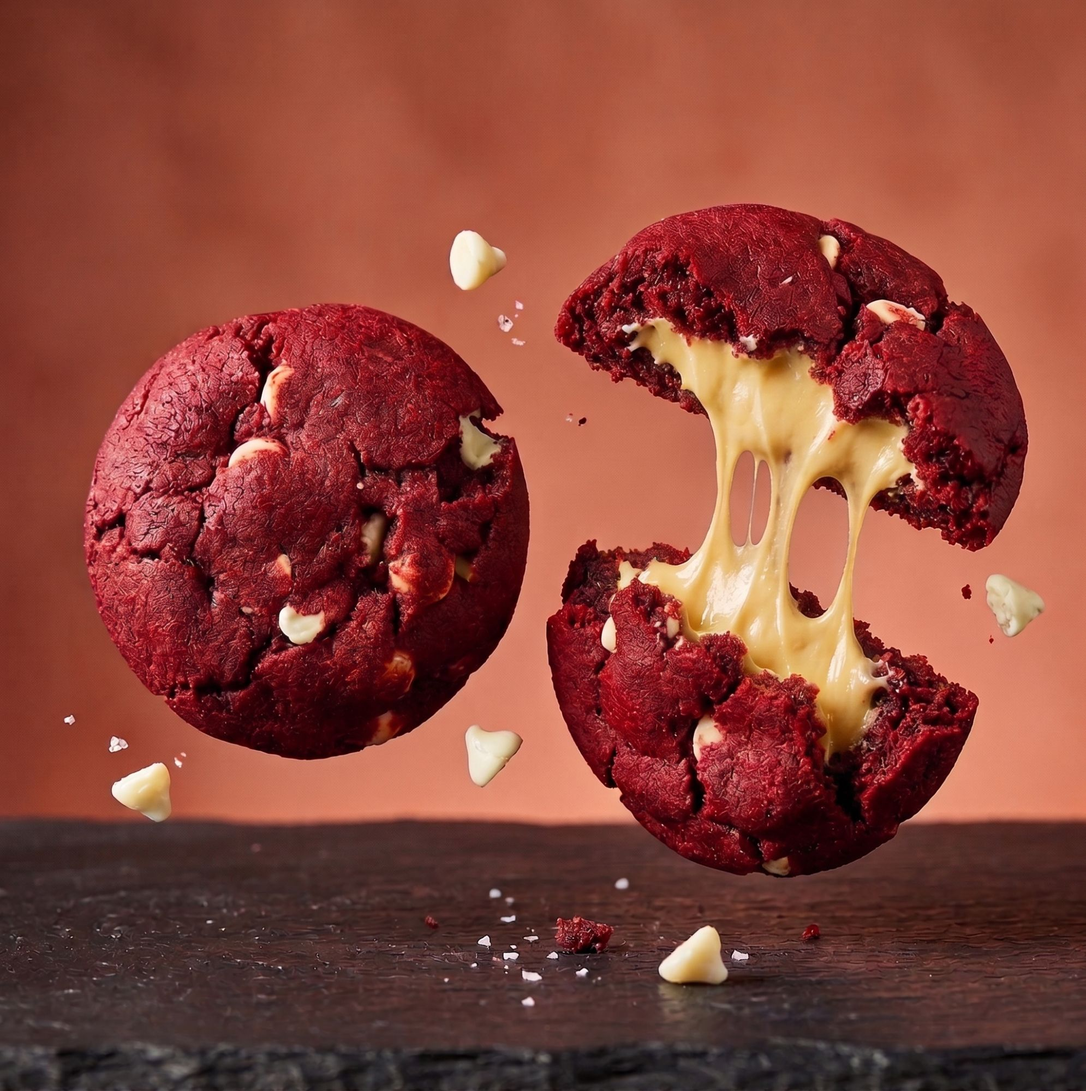
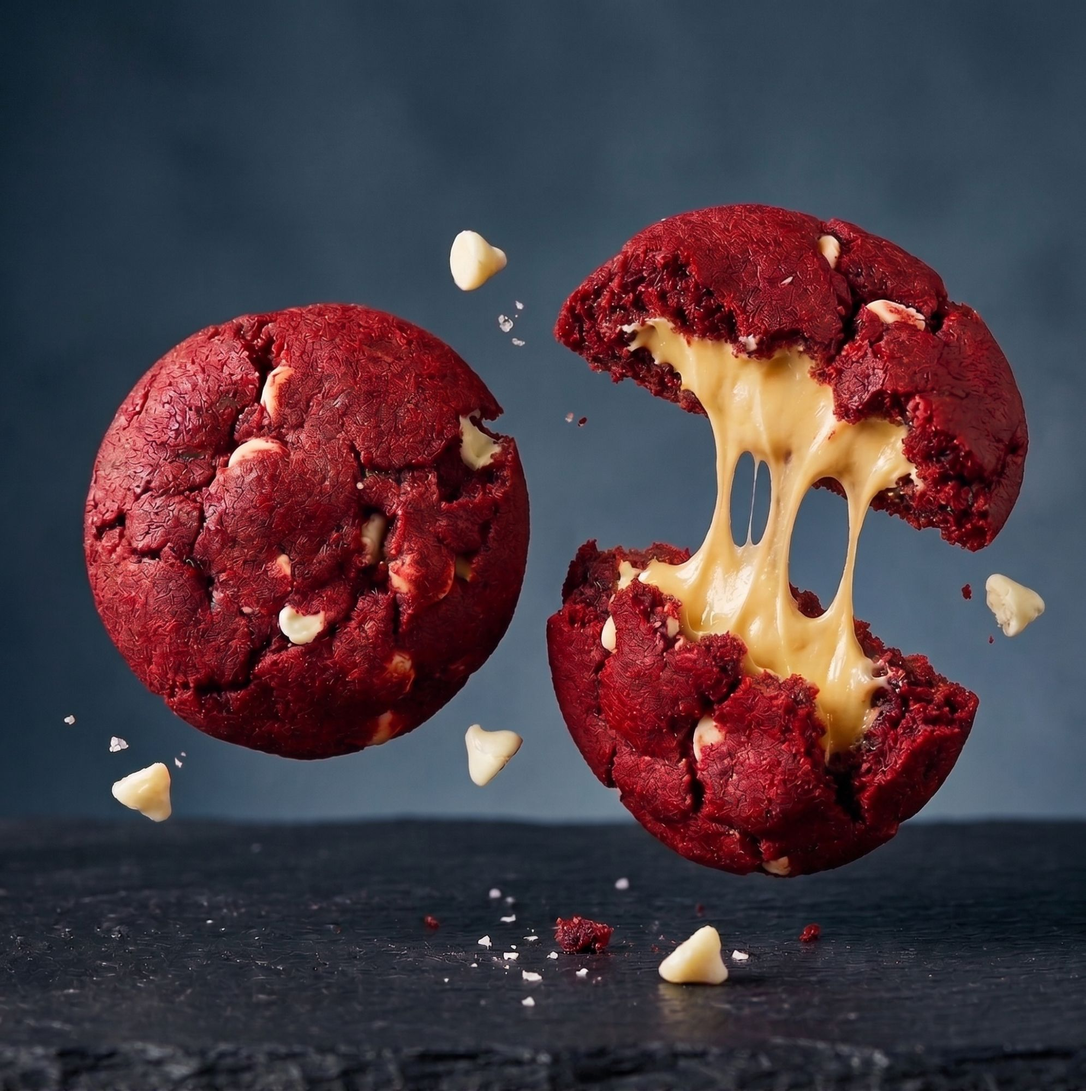
Refaz o red velvet com a foto de fundo azul
O fundo frio resolve o recorte na origem: cookie, creme e gotas são quentes
(R-B de +40 a +73), fundo e bancada são frios (-33 a -12). Um corte em R-B > 12
separa tudo de uma vez, sem detecção de borda, sem remendo de sombra e sem
recuperação de recheio. Some o aspecto esfarelado que a foto de fundo terracota
deixava.

Único cuidado: o preenchimento de buracos fecha junto os furos do recheio —
reabertos por serem francamente frios.

- tema do slide recalculado a partir da massa nova: vinho #4E1217
- fica registrado no design-guide que a foto de produto deve ser em fundo liso
  e frio, justamente por causa disso

Claude-Session: https://claude.ai/code/session_015KdToUggwKp3GhbTfoRf4p

diff --git a/site/index.html b/site/index.html
@@ -134,7 +134,7 @@
 
     <!-- ---------- slide 2: red velvet ---------- -->
     <article class="hero__slide" role="group" aria-label="2 de 2" aria-hidden="true"
-             data-bg="#4A121C" data-blob="#661923" data-blob2="#86222E">
+             data-bg="#4E1217" data-blob="#6D181E" data-blob2="#8C1D25">
       <div class="hero__copy">
         <p class="hero__over">Já provou o</p>
         <h1>Red velvet<br>recheado?</h1>
@@ -146,19 +146,19 @@
       </div>
       <div class="stage">
         <div class="stage__layer camada--inteiro" style="--l:-4%;--t:38%;--w:40%;--f:.45">
-          <img src="assets/img/hero/rv-inteiro.webp" alt="Cookie red velvet inteiro" loading="lazy" width="840" height="859">
+          <img src="assets/img/hero/rv-inteiro.webp" alt="Cookie red velvet inteiro" loading="lazy" width="835" height="853">
         </div>
         <div class="stage__layer camada--chip" style="--l:14%;--t:10%;--w:6%;--f:2.6">
-          <img src="assets/img/hero/rv-chip-3.webp" alt="" loading="lazy" width="118" height="125">
+          <img src="assets/img/hero/rv-chip-3.webp" alt="" loading="lazy" width="111" height="114">
         </div>
         <div class="stage__layer camada--partido" style="--l:24%;--t:-4%;--w:76%;--f:1.15">
-          <img src="assets/img/hero/rv-partido.webp" alt="Cookie red velvet partido ao meio com recheio escorrendo" loading="lazy" width="905" height="1257">
+          <img src="assets/img/hero/rv-partido.webp" alt="Cookie red velvet partido ao meio com recheio escorrendo" loading="lazy" width="899" height="1252">
         </div>
         <div class="stage__layer camada--chip" style="--l:93%;--t:46%;--w:6%;--f:3.1">
-          <img src="assets/img/hero/rv-chip-2.webp" alt="" loading="lazy" width="119" height="128">
+          <img src="assets/img/hero/rv-chip-2.webp" alt="" loading="lazy" width="110" height="117">
         </div>
         <div class="stage__layer camada--chip" style="--l:34%;--t:88%;--w:6.5%;--f:2.2">
-          <img src="assets/img/hero/rv-chip-1.webp" alt="" loading="lazy" width="119" height="128">
+          <img src="assets/img/hero/rv-chip-1.webp" alt="" loading="lazy" width="114" height="121">
         </div>
       </div>
     </article>

diff --git a/site/README.md b/site/README.md
@@ -116,7 +116,7 @@ escurece pra ficar entre 15% e 25% de luminosidade. Foi assim que saíram:
 | Slide | Massa | Fundo | Blobs |
 |---|---|---|---|
 | chocolate | `#2F1C16` | `#3A231A` | `#52301F` / `#6B3F27` |
-| red velvet | `#6A0E15` | `#4A121C` | `#661923` / `#86222E` |
+| red velvet | `#74131A` | `#4E1217` | `#6D181E` / `#8C1D25` |
 
 Não usar preto puro — o design-guide proíbe, e cookie escuro sobre fundo escuro
 demais some. O chocolate ficou num cacau bem escuro, não em preto.
@@ -149,32 +149,41 @@ Camadas em `assets/img/hero/`, recortadas das fotos em `identidade/fotos/`:
 
 ### Como os recortes foram feitos
 
-As fotos vêm com fundo terracota e uma bancada escura embaixo. O recorte sai por
-detecção de borda — o fundo é um degradê liso e o cookie tem contorno duro — e
-depois três limpezas:
+**O fundo da foto decide o trabalho todo.** Vale a pena ler isso antes da próxima
+sessão de fotos.
 
-1. **A borda da bancada** entra como um risco fino e comprido colado no cookie.
-   Sai por uma regra geométrica: apagar o que é fino na vertical e longo na
-   horizontal. Os fios de doce também são finos, mas verticais, então ficam.
-2. **O pé do cookie** mergulha na sombra da bancada e o contorno se perde. A máscara
-   cresce ali pra dentro do escuro, limitada à faixa horizontal que o cookie já ocupa.
-3. **Bolsões de fundo presos entre os fios** — invisíveis quando o fundo era peach,
-   evidentes agora que é escuro. Saem por crescimento a partir de sementes que batem
-   com o fundo estimado localmente, limitado pelas mesmas bordas do recorte, o que
-   impede de vazar pra dentro da massa.
-4. **O recheio do red velvet** precisou de tratamento próprio: naquela foto o creme e
-   o fundo terracota têm quase a mesma cor (215,160,129 contra 223,147,121), então a
-   detecção de borda não enxerga a divisa e o preenchimento entra no recheio, deixando
-   só um contorno fino. O que separa os dois ali é o brilho — o creme é ~30 mais claro
-   que o fundo, e a massa ~25 mais escura. Então: estima o fundo por interpolação,
-   devolve pro recorte o que estiver acima de `fundo + 18` dentro do vão entre as
-   metades, e abre como transparente o que ficar colado no brilho do fundo (os furos
-   de verdade do recheio, aqueles que na foto deixam ver o fundo através).
+*Fundo frio (azul-acinzentado) — o caminho fácil.* O red velvet foi refotografado
+assim, e o recorte virou uma linha de código: cookie, creme e gotas são quentes
+(vermelho menos azul entre +40 e +73), fundo e bancada são frios (entre −33 e −12).
+Um corte em `R − B > 12` separa tudo de uma vez, sem tocar em borda, sombra ou
+textura. Só um cuidado: o preenchimento de buracos fecha junto os furos do recheio,
+aqueles que na foto deixam ver o fundo através — reabre o que for francamente frio
+e eles voltam a ser transparentes.
 
-Cor sozinha não resolve: no red velvet o fundo terracota e a massa média têm quase
-a mesma razão verde/vermelho, e o creme e o fundo têm quase o mesmo RGB.
+*Fundo quente (terracota) — o caminho difícil.* Foi o caso do cookie de chocolate e
+da primeira foto do red velvet. Aí o fundo tem cor parecida com o produto e o
+recorte precisa de detecção de borda (o fundo é liso, o cookie tem contorno duro),
+mais três remendos:
 
-Pra refazer à mão com outra foto, o caminho mais simples é o Gemini, uma por vez:
+1. **A borda da bancada** entra como um risco fino e comprido colado no cookie. Sai
+   por regra geométrica: apagar o que é fino na vertical e longo na horizontal. Os
+   fios de doce também são finos, mas verticais, então ficam.
+2. **O pé do cookie** mergulha na sombra da bancada e perde o contorno. A máscara
+   cresce ali pra dentro do escuro, limitada à faixa horizontal que o cookie ocupa.
+3. **Bolsões de fundo presos entre os fios** — invisíveis quando o fundo do site era
+   peach, evidentes agora que é escuro. Saem por crescimento a partir de sementes que
+   batem com o fundo estimado localmente.
+
+E na primeira foto do red velvet ainda teve um quarto problema: creme (215,160,129)
+e fundo (223,147,121) com praticamente o mesmo RGB. A borda entre os dois some e o
+preenchimento come o recheio. Deu pra resolver pelo brilho — o creme é ~30 mais
+claro que o fundo naquele ponto — mas o resultado nunca ficou tão limpo quanto o da
+foto de fundo azul.
+
+**Conclusão pra fotografar:** fundo liso e **frio** (azul, cinza-azulado, verde
+acinzentado), produto quente. Assim o recorte é exato e sai em segundos.
+
+Pra refazer à mão, o caminho mais simples é o Gemini, uma foto por vez:
 
 > Remova o fundo desta foto e devolva um PNG com fundo transparente. Preserve as
 > bordas do cookie e os fios de recheio, sem halo branco em volta. Não altere cor,
@@ -189,8 +198,9 @@ O Flow rende melhor num loop na seção do fondue ou direto no Instagram, em MP4
 
 ### Pra somar um slide novo
 
-1. Manda a foto do cookie (mesmo enquadramento das outras: fundo liso, cookie inteiro
-   à esquerda e partido à direita).
+1. Manda a foto do cookie: mesmo enquadramento das outras (cookie inteiro à esquerda,
+   partido à direita) e **fundo liso e frio**, azul ou cinza-azulado — é o que faz o
+   recorte sair exato.
 2. Duplica um `<article class="hero__slide">` no `index.html`, troca texto, imagens
    e as três cores do tema.
 3. Só isso — o slider conta os slides sozinho e some com as setas se sobrar um só.
